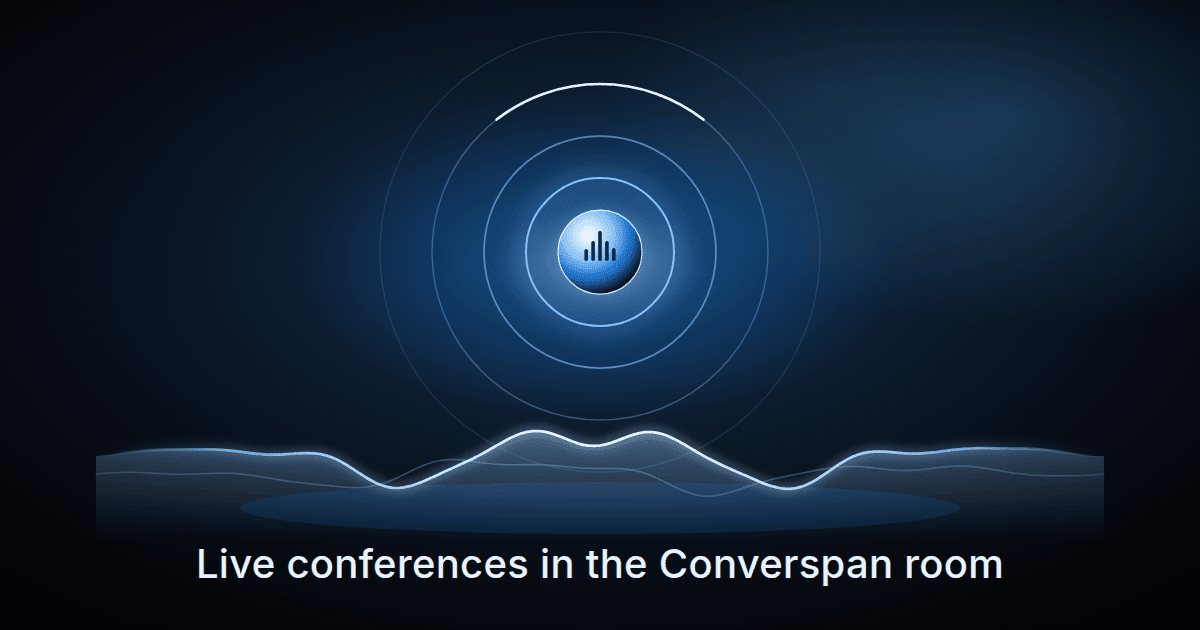
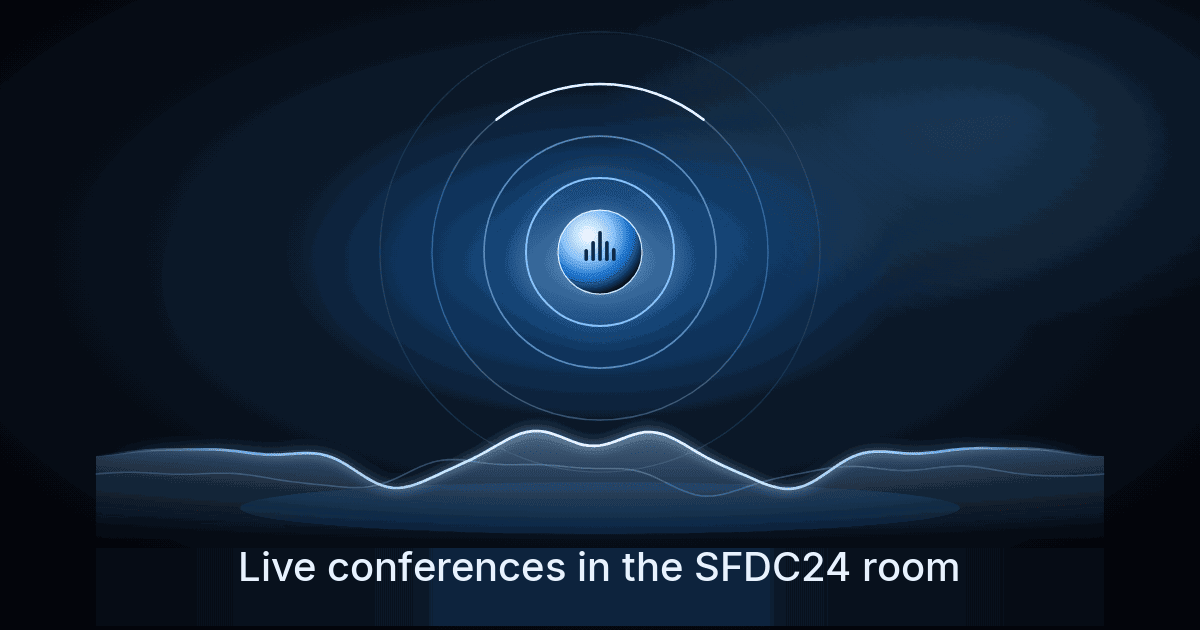
Keep sfdc24.com on its own conference room.
Drop the Converspan footer, menu, and page copy. Start and Join now open /conferences/room/ on this site, and the shared cobalt chrome stays the site identity.

Changed region(s): [[0.1542, 0.8444, 0.8325, 0.9952]]

diff --git a/conferences/index.html b/conferences/index.html
@@ -4,20 +4,20 @@
 <meta charset="utf-8">
 <meta name="viewport" content="width=device-width,initial-scale=1,viewport-fit=cover">
 <meta name="robots" content="noindex">
-<title>Live conferences in the Converspan room</title>
-<meta name="description" content="Conferences run in the Converspan room. Start or join there. This page has no microphone. Recording and transcripts need consent first.">
+<title>Live conferences in the SFDC24 room</title>
+<meta name="description" content="Conferences run in the SFDC24 room. Start or join there. This page has no microphone. Recording and transcripts need consent first.">
 <link rel="canonical" href="https://sfdc24.com/conferences/">
 <meta property="og:type" content="website">
 <meta property="og:url" content="https://sfdc24.com/conferences/">
-<meta property="og:title" content="Live conferences in the Converspan room">
-<meta property="og:description" content="Conferences run in the Converspan room. Start or join there. This page has no microphone. Recording and transcripts need consent first.">
+<meta property="og:title" content="Live conferences in the SFDC24 room">
+<meta property="og:description" content="Conferences run in the SFDC24 room. Start or join there. This page has no microphone. Recording and transcripts need consent first.">
 <meta property="og:image" content="https://sfdc24.com/conferences/og.png">
 <meta property="og:image:width" content="1200">
 <meta property="og:image:height" content="630">
-<meta property="og:image:alt" content="Glowing speaker rings and a waveform on a dark field. Live conferences in the Converspan room.">
+<meta property="og:image:alt" content="Glowing speaker rings and a waveform on a dark field. Live conferences in the SFDC24 room.">
 <meta name="twitter:card" content="summary_large_image">
-<meta name="twitter:title" content="Live conferences in the Converspan room">
-<meta name="twitter:description" content="Conferences run in the Converspan room. Start or join there. This page has no microphone. Recording and transcripts need consent first.">
+<meta name="twitter:title" content="Live conferences in the SFDC24 room">
+<meta name="twitter:description" content="Conferences run in the SFDC24 room. Start or join there. This page has no microphone. Recording and transcripts need consent first.">
 <meta name="twitter:image" content="https://sfdc24.com/conferences/og.png">
 <link rel="icon" href="/assets/favicon.ico" sizes="any">
 <link rel="icon" type="image/png" href="/assets/icon-32.png" sizes="32x32">
@@ -299,7 +299,6 @@
       <a href="/terms/">Terms</a>
       <a href="/about/">About</a>
       <a href="/conferences/">Conferences</a>
-      <a href="https://converspan.com" target="_blank" rel="noopener noreferrer">Converspan</a>
       <a href="https://www.linkedin.com/in/salams" target="_blank" rel="noopener noreferrer">LinkedIn</a>
       <a href="mailto:abdus@sfdc24.com">abdus@sfdc24.com</a>
     </nav>
@@ -328,10 +327,10 @@
       <span class="label">Summary</span>
     </li>
   </ol>
-  <figure class="stage" id="conference-stage" role="img" aria-label="Converspan room. Objectives: Open the brief, Mark the aim, Draw the path.">
+  <figure class="stage" id="conference-stage" role="img" aria-label="SFDC24 room. Objectives: Open the brief, Mark the aim, Draw the path.">
     <div class="stage-top" aria-hidden="true">
       <span class="orb" aria-hidden="true"><span class="ring"></span><span class="ring"></span><span class="core"><i></i><i></i><i></i></span></span>
-      <span class="stage-name">Converspan</span>
+      <span class="stage-name">SFDC24</span>
     </div>
     <p class="aims-h" aria-hidden="true">Room</p>
     <ol class="aims" aria-hidden="true">
@@ -383,12 +382,12 @@
     <div class="pick pick-host">
       <p class="pick-label" id="conference-host-name">Host</p>
       <p class="pick-hint" id="conference-host-hint">Open</p>
-      <a class="go" id="conference-start" href="https://converspan.com/room" aria-label="Host Open the room. Start">Start</a>
+      <a class="go" id="conference-start" href="https://sfdc24.com/conferences/room/" aria-label="Host Open the room. Start">Start</a>
     </div>
     <div class="pick pick-join">
       <p class="pick-label" id="conference-join-name">Join</p>
       <p class="pick-hint" id="conference-join-hint">Enter</p>
-      <a class="go quiet" id="conference-join" href="https://converspan.com/room" aria-label="Join Enter the room. Join">Join</a>
+      <a class="go quiet" id="conference-join" href="https://sfdc24.com/conferences/room/" aria-label="Join Enter the room. Join">Join</a>
     </div>
   </div>
   <section class="lobby" id="conference-lobby" aria-labelledby="conference-lobby-kicker">
@@ -429,7 +428,7 @@
     <button type="button" class="invite" id="conference-invite" aria-label="Invite a guest"><svg class="invite-ico" viewBox="0 0 24 24" aria-hidden="true" focusable="false" width="22" height="22"><circle cx="9" cy="8" r="3.1" fill="none" stroke="currentColor" stroke-width="1.8"/><path d="M3.6 18.6c.7-2.7 2.7-4.1 5.4-4.1s4.7 1.4 5.4 4.1" fill="none" stroke="currentColor" stroke-width="1.8" stroke-linecap="round"/><path d="M18 8.2v5.6M15.2 11h5.6" fill="none" stroke="currentColor" stroke-width="1.8" stroke-linecap="round"/></svg><span class="invite-label">Invite</span></button>
   </div>
   <div class="invite-pop" id="conference-invite-toast" role="status" aria-live="polite" aria-atomic="true"><div class="invite-pop-in"><span class="invite-chip"></span></div></div>
-  <div class="invite-field" id="conference-invite-link" role="textbox" aria-readonly="true" aria-label="Converspan room link" tabindex="0" hidden>https://converspan.com/room</div>
+  <div class="invite-field" id="conference-invite-link" role="textbox" aria-readonly="true" aria-label="SFDC24 room link" tabindex="0" hidden>https://sfdc24.com/conferences/room/</div>
   <section class="ready" id="conference-ready" aria-labelledby="conference-ready-title" data-watching="0">
     <h2 class="ready-title" id="conference-ready-title" aria-label="Ready to join?">Ready</h2>
     <svg class="ico-src" width="22" height="22" aria-hidden="true" focusable="false"><symbol id="ready-wait" viewBox="0 0 24 24"><circle cx="12" cy="12" r="8.5" fill="none" stroke="currentColor" stroke-width="1.8" stroke-dasharray="2.4 3.2"/></symbol><symbol id="ready-pass" viewBox="0 0 24 24"><circle cx="12" cy="12" r="8.5" fill="none" stroke="currentColor" stroke-width="1.8"/><path d="M7.6 12.2 10.5 15.1 16.4 8.9" fill="none" stroke="currentColor" stroke-width="1.8" stroke-linecap="round" stroke-linejoin="round"/></symbol><symbol id="ready-fail" viewBox="0 0 24 24"><circle cx="12" cy="12" r="8.5" fill="none" stroke="currentColor" stroke-width="1.8"/><path d="M12 7.4v6.2" fill="none" stroke="currentColor" stroke-width="1.8" stroke-linecap="round"/><circle cx="12" cy="16.6" r="1.05" fill="currentColor"/></symbol></svg><ul class="ready-list" aria-live="polite" aria-busy="true" aria-label="This browser">
@@ -453,7 +452,7 @@
     <div class="faq-list">
       <div class="faq-item">
         <h3 class="faq-q"><button type="button" class="faq-btn" id="conference-faq-q1" aria-expanded="false" aria-controls="conference-faq-a1"><span class="faq-label">Where is the room?</span><svg class="faq-chev" viewBox="0 0 24 24" aria-hidden="true" focusable="false" width="22" height="22"><path d="M6 9.5 12 15.5 18 9.5" fill="none" stroke="currentColor" stroke-width="1.8" stroke-linecap="round" stroke-linejoin="round"/></svg></button></h3>
-        <div class="faq-panel" id="conference-faq-a1" role="region" aria-labelledby="conference-faq-q1"><div class="faq-panel-in"><p>The Converspan room.</p></div></div>
+        <div class="faq-panel" id="conference-faq-a1" role="region" aria-labelledby="conference-faq-q1"><div class="faq-panel-in"><p>The SFDC24 room.</p></div></div>
       </div>
       <div class="faq-item">
         <h3 class="faq-q"><button type="button" class="faq-btn" id="conference-faq-q2" aria-expanded="false" aria-controls="conference-faq-a2"><span class="faq-label">Does this page listen?</span><svg class="faq-chev" viewBox="0 0 24 24" aria-hidden="true" focusable="false" width="22" height="22"><path d="M6 9.5 12 15.5 18 9.5" fill="none" stroke="currentColor" stroke-width="1.8" stroke-linecap="round" stroke-linejoin="round"/></svg></button></h3>
@@ -461,7 +460,7 @@
       </div>
       <div class="faq-item">
         <h3 class="faq-q"><button type="button" class="faq-btn" id="conference-faq-q3" aria-expanded="false" aria-controls="conference-faq-a3"><span class="faq-label">Who keeps a transcript?</span><svg class="faq-chev" viewBox="0 0 24 24" aria-hidden="true" focusable="false" width="22" height="22"><path d="M6 9.5 12 15.5 18 9.5" fill="none" stroke="currentColor" stroke-width="1.8" stroke-linecap="round" stroke-linejoin="round"/></svg></button></h3>
-        <div class="faq-panel" id="conference-faq-a3" role="region" aria-labelledby="conference-faq-q3"><div class="faq-panel-in"><p>Converspan, with consent.</p></div></div>
+        <div class="faq-panel" id="conference-faq-a3" role="region" aria-labelledby="conference-faq-q3"><div class="faq-panel-in"><p>SFDC24, with consent.</p></div></div>
       </div>
       <div class="faq-item">
         <h3 class="faq-q"><button type="button" class="faq-btn" id="conference-faq-q4" aria-expanded="false" aria-controls="conference-faq-a4"><span class="faq-label">What is left after?</span><svg class="faq-chev" viewBox="0 0 24 24" aria-hidden="true" focusable="false" width="22" height="22"><path d="M6 9.5 12 15.5 18 9.5" fill="none" stroke="currentColor" stroke-width="1.8" stroke-linecap="round" stroke-linejoin="round"/></svg></button></h3>
@@ -478,7 +477,6 @@
         <a href="/terms/">Terms</a>
         <a href="/about/">About</a>
         <a href="/conferences/">Conferences</a>
-        <a href="https://converspan.com" target="_blank" rel="noopener noreferrer" title="Converspan (opens in a new tab)">Converspan</a>
       </span>
       <span class="chrome-foot-contact">
         <a href="https://www.linkedin.com/in/salams" class="chrome-linkedin" aria-label="LinkedIn" title="LinkedIn (opens in a new tab)" target="_blank" rel="noopener noreferrer"><svg viewBox="0 0 24 24" aria-hidden="true" focusable="false"><path d="M20.45 2H3.55C2.69 2 2 2.68 2 3.52v16.96C2 21.32 2.69 22 3.55 22h16.9c.86 0 1.55-.68 1.55-1.52V3.52C22 2.68 21.31 2 20.45 2zM7.93 18.75H4.98V9.2h2.95v9.55zM6.45 7.9a1.71 1.71 0 1 1 0-3.42 1.71 1.71 0 0 1 0 3.42zm12.3 10.85H15.8V14.1c0-1.11-.02-2.54-1.55-2.54-1.55 0-1.79 1.21-1.79 2.46v4.73H9.51V9.2h2.83v1.3h.04c.4-.76 1.36-1.56 2.79-1.56 2.99 0 3.58 1.97 3.58 4.53v5.28z"/></svg></a>

diff --git a/conferences/room/index.html b/conferences/room/index.html
@@ -1,0 +1,79 @@
+<!DOCTYPE html>
+<html lang="en" data-palette="cobalt">
+<head>
+<meta charset="utf-8">
+<meta name="viewport" content="width=device-width,initial-scale=1">
+<meta name="robots" content="noindex">
+<title>SFDC24 conference room</title>
+<meta name="description" content="The SFDC24 conference room. This page has no microphone. Recording and transcripts need consent first.">
+<link rel="canonical" href="https://sfdc24.com/conferences/room/">
+<link rel="icon" href="/assets/favicon.ico" sizes="any">
+<link rel="stylesheet" href="/assets/chrome.css">
+</head>
+<body class="sitefoot" data-chrome-section="Conferences" data-chrome-ask="off">
+<header class="masthead chrome-bar">
+  <a class="mark chrome-mark" href="/" data-live-brand="1">sfdc<span>24</span></a>
+  <span class="where">Conferences</span>
+</header>
+<main class="wrap" id="room">
+  <h1>Conference room</h1>
+  <p>You are in the SFDC24 room. Assessment, automation, and AI enablement. Brief, aim, and path stay on this page.</p>
+  <ol>
+    <li>Brief</li>
+    <li>Aim</li>
+    <li>Path</li>
+  </ol>
+  <p>
+    <button type="button" id="room-invite">Copy invite link</button>
+    <a href="/conferences/">Back to conferences</a>
+  </p>
+  <p id="room-status" role="status"></p>
+  <p>No microphone on this page. Recording and transcripts need consent before either starts.</p>
+</main>
+<script>
+(function () {
+  var btn = document.getElementById("room-invite");
+  var status = document.getElementById("room-status");
+  var link = "https://sfdc24.com/conferences/room/";
+  if (!btn || !status) return;
+  btn.addEventListener("click", function () {
+    var clip = null;
+    try { clip = navigator.clipboard; } catch (err) { clip = null; }
+    if (!clip || typeof clip.writeText !== "function") {
+      status.textContent = link;
+      return;
+    }
+    var pending;
+    try { pending = clip.writeText(link); } catch (err) {
+      status.textContent = link;
+      return;
+    }
+    if (!pending || typeof pending.then !== "function") {
+      status.textContent = link;
+      return;
+    }
+    pending.then(function () { status.textContent = "Invite link copied."; }, function () {
+      status.textContent = link;
+    });
+  });
+})();
+</script>
+<footer class="chrome-foot">
+    <nav aria-label="Footer">
+      <span class="chrome-foot-main">
+        <a href="/method/">Method</a>
+        <a href="/privacy/">Privacy</a>
+        <a href="/terms/">Terms</a>
+        <a href="/about/">About</a>
+        <a href="/conferences/">Conferences</a>
+      </span>
+      <span class="chrome-foot-contact">
+        <a href="https://www.linkedin.com/in/salams" class="chrome-linkedin" aria-label="LinkedIn" title="LinkedIn (opens in a new tab)" target="_blank" rel="noopener noreferrer"><svg viewBox="0 0 24 24" aria-hidden="true" focusable="false"><path d="M20.45 2H3.55C2.69 2 2 2.68 2 3.52v16.96C2 21.32 2.69 22 3.55 22h16.9c.86 0 1.55-.68 1.55-1.52V3.52C22 2.68 21.31 2 20.45 2zM7.93 18.75H4.98V9.2h2.95v9.55zM6.45 7.9a1.71 1.71 0 1 1 0-3.42 1.71 1.71 0 0 1 0 3.42zm12.3 10.85H15.8V14.1c0-1.11-.02-2.54-1.55-2.54-1.55 0-1.79 1.21-1.79 2.46v4.73H9.51V9.2h2.83v1.3h.04c.4-.76 1.36-1.56 2.79-1.56 2.99 0 3.58 1.97 3.58 4.53v5.28z"/></svg></a>
+        <a href="mailto:abdus@sfdc24.com">abdus@sfdc24.com</a>
+      </span>
+    </nav>
+  <p class="chrome-disclaimer">sfdc24.com is an independent community resource for Salesforce customers, consultants and developers, run by Abdus Salam, a certified Salesforce Sales Cloud Consultant, with help from AI agents. It is not affiliated with, endorsed by, or sponsored by Salesforce, Inc., and does not represent or speak for Salesforce. Salesforce, Sales Cloud and related marks are trademarks of Salesforce, Inc.</p>
+</footer>
+<script src="/assets/chrome.js" defer></script>
+</body>
+</html>

diff --git a/assets/chrome.js b/assets/chrome.js
@@ -67,7 +67,7 @@
       "History": "",
       "Stream": "Three minutes of continuous speech for a call back.",
       "Process": "Milestones in progress and landed, by project.",
-      "Conferences": "Conferences run in the Converspan room.",
+      "Conferences": "Conferences run in the SFDC24 room.",
       "Conference": "Brochure for the conference experience. Team entry is the gateway.",
       "Experience": "Work with the team on the conference line, out loud and on a canvas.",
       "Ops": "Operations visibility. Measured rates stay on this page."
@@ -197,8 +197,8 @@
   }
 
   function ensureShell() {
-    /* /conferences/ sets data-chrome-ask="off". That page is a handoff, not an
-       ask bar, and must not grow a microphone or a transcript. Every other
+    /* /conferences/ sets data-chrome-ask="off". That page does not listen,
+       and must not grow a microphone or a transcript. Every other
        page leaves the attribute unset and still gets this shell. */
     if (document.body && document.body.getAttribute("data-chrome-ask") === "off") return;
     if (document.getElementById("chrome-ask-shell")) return;
@@ -301,8 +301,7 @@
       ["/privacy/", "Privacy", hasCabinet ? "privacy" : ""],
       ["/terms/", "Terms", hasCabinet ? "terms" : ""],
       ["/about/", "About", ""],
-      ["/conferences/", "Conferences", ""],
-      ["https://converspan.com", "Converspan", ""]
+      ["/conferences/", "Conferences", ""]
     ];
     /* /ops stays on role titles. No personal contact, name, or address. */
     if (!isOps()) {

diff --git a/dashboard/index.html b/dashboard/index.html
@@ -132,10 +132,10 @@
             <td><a href="/ops/#issues-m6">Site land</a></td>
           </tr>
           <tr>
-            <td><a href="/ops/#converspan">Converspan</a></td>
+            <td><a href="/ops/#conference-line">Conference line</a></td>
             <td>35%</td>
             <td class="rag red">RED</td>
-            <td><a href="/ops/#converspan">Strategy record</a></td>
+            <td><a href="/ops/#conference-line">Strategy record</a></td>
           </tr>
           <tr>
             <td><a href="/ops/#prospect-demo">Prospect demo</a></td>
@@ -175,7 +175,6 @@
         <a href="/terms/">Terms</a>
         <a href="/about/">About</a>
         <a href="/conferences/">Conferences</a>
-        <a href="https://converspan.com" target="_blank" rel="noopener noreferrer" title="Converspan (opens in a new tab)">Converspan</a>
       </span>
       <span class="chrome-foot-contact">
         <a href="https://www.linkedin.com/in/salams" class="chrome-linkedin" aria-label="LinkedIn" title="LinkedIn (opens in a new tab)" target="_blank" rel="noopener noreferrer"><svg viewBox="0 0 24 24" aria-hidden="true" focusable="false"><path d="M20.45 2H3.55C2.69 2 2 2.68 2 3.52v16.96C2 21.32 2.69 22 3.55 22h16.9c.86 0 1.55-.68 1.55-1.52V3.52C22 2.68 21.31 2 20.45 2zM7.93 18.75H4.98V9.2h2.95v9.55zM6.45 7.9a1.71 1.71 0 1 1 0-3.42 1.71 1.71 0 0 1 0 3.42zm12.3 10.85H15.8V14.1c0-1.11-.02-2.54-1.55-2.54-1.55 0-1.79 1.21-1.79 2.46v4.73H9.51V9.2h2.83v1.3h.04c.4-.76 1.36-1.56 2.79-1.56 2.99 0 3.58 1.97 3.58 4.53v5.28z"/></svg></a>

diff --git a/conference/index.html b/conference/index.html
@@ -81,7 +81,7 @@
       <a href="/method/">Method</a>
       <a href="/">Home</a>
     </p>
-    <p>The public handoff is Conferences. It opens the Converspan room. This page is still not the join door.</p>
+    <p>The public path is Conferences. Start and Join open the SFDC24 room. This page is still not the join door.</p>
     <p><span class="pill hold">Brochure</span> Not a live status panel, and not a join form.</p>
   </section>
 </main>
@@ -93,7 +93,6 @@
         <a href="/terms/">Terms</a>
         <a href="/about/">About</a>
         <a href="/conferences/">Conferences</a>
-        <a href="https://converspan.com" target="_blank" rel="noopener noreferrer" title="Converspan (opens in a new tab)">Converspan</a>
       </span>
       <span class="chrome-foot-contact">
         <a href="https://www.linkedin.com/in/salams" class="chrome-linkedin" aria-label="LinkedIn" title="LinkedIn (opens in a new tab)" target="_blank" rel="noopener noreferrer"><svg viewBox="0 0 24 24" aria-hidden="true" focusable="false"><path d="M20.45 2H3.55C2.69 2 2 2.68 2 3.52v16.96C2 21.32 2.69 22 3.55 22h16.9c.86 0 1.55-.68 1.55-1.52V3.52C22 2.68 21.31 2 20.45 2zM7.93 18.75H4.98V9.2h2.95v9.55zM6.45 7.9a1.71 1.71 0 1 1 0-3.42 1.71 1.71 0 0 1 0 3.42zm12.3 10.85H15.8V14.1c0-1.11-.02-2.54-1.55-2.54-1.55 0-1.79 1.21-1.79 2.46v4.73H9.51V9.2h2.83v1.3h.04c.4-.76 1.36-1.56 2.79-1.56 2.99 0 3.58 1.97 3.58 4.53v5.28z"/></svg></a>

diff --git a/studio/index.html b/studio/index.html
@@ -33,7 +33,6 @@
       <a href="/terms/">Terms</a>
       <a href="/about/">About</a>
       <a href="/conferences/">Conferences</a>
-      <a href="https://converspan.com" target="_blank" rel="noopener noreferrer">Converspan</a>
       <a href="https://www.linkedin.com/in/salams" target="_blank" rel="noopener noreferrer">LinkedIn</a>
       <a href="mailto:abdus@sfdc24.com">abdus@sfdc24.com</a>
     </nav>
@@ -84,7 +83,6 @@
         <a href="/terms/">Terms</a>
         <a href="/about/">About</a>
         <a href="/conferences/">Conferences</a>
-        <a href="https://converspan.com" target="_blank" rel="noopener noreferrer" title="Converspan (opens in a new tab)">Converspan</a>
       </span>
       <span class="chrome-foot-contact">
         <a href="https://www.linkedin.com/in/salams" class="chrome-linkedin" aria-label="LinkedIn" title="LinkedIn (opens in a new tab)" target="_blank" rel="noopener noreferrer"><svg viewBox="0 0 24 24" aria-hidden="true" focusable="false"><path d="M20.45 2H3.55C2.69 2 2 2.68 2 3.52v16.96C2 21.32 2.69 22 3.55 22h16.9c.86 0 1.55-.68 1.55-1.52V3.52C22 2.68 21.31 2 20.45 2zM7.93 18.75H4.98V9.2h2.95v9.55zM6.45 7.9a1.71 1.71 0 1 1 0-3.42 1.71 1.71 0 0 1 0 3.42zm12.3 10.85H15.8V14.1c0-1.11-.02-2.54-1.55-2.54-1.55 0-1.79 1.21-1.79 2.46v4.73H9.51V9.2h2.83v1.3h.04c.4-.76 1.36-1.56 2.79-1.56 2.99 0 3.58 1.97 3.58 4.53v5.28z"/></svg></a>

diff --git a/looks/index.html b/looks/index.html
@@ -305,7 +305,6 @@ a:focus-visible,button:focus-visible{outline:2px solid var(--signal);outline-off
         <a href="/terms/">Terms</a>
         <a href="/about/">About</a>
         <a href="/conferences/">Conferences</a>
-        <a href="https://converspan.com" target="_blank" rel="noopener noreferrer" title="Converspan (opens in a new tab)">Converspan</a>
       </span>
       <span class="chrome-foot-contact">
         <a href="https://www.linkedin.com/in/salams" class="chrome-linkedin" aria-label="LinkedIn" title="LinkedIn (opens in a new tab)" target="_blank" rel="noopener noreferrer"><svg viewBox="0 0 24 24" aria-hidden="true" focusable="false"><path d="M20.45 2H3.55C2.69 2 2 2.68 2 3.52v16.96C2 21.32 2.69 22 3.55 22h16.9c.86 0 1.55-.68 1.55-1.52V3.52C22 2.68 21.31 2 20.45 2zM7.93 18.75H4.98V9.2h2.95v9.55zM6.45 7.9a1.71 1.71 0 1 1 0-3.42 1.71 1.71 0 0 1 0 3.42zm12.3 10.85H15.8V14.1c0-1.11-.02-2.54-1.55-2.54-1.55 0-1.79 1.21-1.79 2.46v4.73H9.51V9.2h2.83v1.3h.04c.4-.76 1.36-1.56 2.79-1.56 2.99 0 3.58 1.97 3.58 4.53v5.28z"/></svg></a>

diff --git a/method/index.html b/method/index.html
@@ -314,7 +314,6 @@ a:focus-visible,button:focus-visible{outline:2px solid var(--signal);outline-off
         <a href="/terms/">Terms</a>
         <a href="/about/">About</a>
         <a href="/conferences/">Conferences</a>
-        <a href="https://converspan.com" target="_blank" rel="noopener noreferrer" title="Converspan (opens in a new tab)">Converspan</a>
       </span>
       <span class="chrome-foot-contact">
         <a href="https://www.linkedin.com/in/salams" class="chrome-linkedin" aria-label="LinkedIn" title="LinkedIn (opens in a new tab)" target="_blank" rel="noopener noreferrer"><svg viewBox="0 0 24 24" aria-hidden="true" focusable="false"><path d="M20.45 2H3.55C2.69 2 2 2.68 2 3.52v16.96C2 21.32 2.69 22 3.55 22h16.9c.86 0 1.55-.68 1.55-1.52V3.52C22 2.68 21.31 2 20.45 2zM7.93 18.75H4.98V9.2h2.95v9.55zM6.45 7.9a1.71 1.71 0 1 1 0-3.42 1.71 1.71 0 0 1 0 3.42zm12.3 10.85H15.8V14.1c0-1.11-.02-2.54-1.55-2.54-1.55 0-1.79 1.21-1.79 2.46v4.73H9.51V9.2h2.83v1.3h.04c.4-.76 1.36-1.56 2.79-1.56 2.99 0 3.58 1.97 3.58 4.53v5.28z"/></svg></a>

diff --git a/review/index.html b/review/index.html
@@ -591,7 +591,6 @@ a:focus-visible,button:focus-visible{outline:2px solid var(--signal);outline-off
         <a href="/terms/">Terms</a>
         <a href="/about/">About</a>
         <a href="/conferences/">Conferences</a>
-        <a href="https://converspan.com" target="_blank" rel="noopener noreferrer" title="Converspan (opens in a new tab)">Converspan</a>
       </span>
       <span class="chrome-foot-contact">
         <a href="https://www.linkedin.com/in/salams" class="chrome-linkedin" aria-label="LinkedIn" title="LinkedIn (opens in a new tab)" target="_blank" rel="noopener noreferrer"><svg viewBox="0 0 24 24" aria-hidden="true" focusable="false"><path d="M20.45 2H3.55C2.69 2 2 2.68 2 3.52v16.96C2 21.32 2.69 22 3.55 22h16.9c.86 0 1.55-.68 1.55-1.52V3.52C22 2.68 21.31 2 20.45 2zM7.93 18.75H4.98V9.2h2.95v9.55zM6.45 7.9a1.71 1.71 0 1 1 0-3.42 1.71 1.71 0 0 1 0 3.42zm12.3 10.85H15.8V14.1c0-1.11-.02-2.54-1.55-2.54-1.55 0-1.79 1.21-1.79 2.46v4.73H9.51V9.2h2.83v1.3h.04c.4-.76 1.36-1.56 2.79-1.56 2.99 0 3.58 1.97 3.58 4.53v5.28z"/></svg></a>

diff --git a/history/index.html b/history/index.html
@@ -55,7 +55,6 @@ body.sitefoot > .wrap,body.sitefoot > #chrome-ask-shell,.chrome-ask{box-sizing:b
         <a href="/terms/">Terms</a>
         <a href="/about/">About</a>
         <a href="/conferences/">Conferences</a>
-        <a href="https://converspan.com" target="_blank" rel="noopener noreferrer" title="Converspan (opens in a new tab)">Converspan</a>
       </span>
       <span class="chrome-foot-contact">
         <a href="https://www.linkedin.com/in/salams" class="chrome-linkedin" aria-label="LinkedIn" title="LinkedIn (opens in a new tab)" target="_blank" rel="noopener noreferrer"><svg viewBox="0 0 24 24" aria-hidden="true" focusable="false"><path d="M20.45 2H3.55C2.69 2 2 2.68 2 3.52v16.96C2 21.32 2.69 22 3.55 22h16.9c.86 0 1.55-.68 1.55-1.52V3.52C22 2.68 21.31 2 20.45 2zM7.93 18.75H4.98V9.2h2.95v9.55zM6.45 7.9a1.71 1.71 0 1 1 0-3.42 1.71 1.71 0 0 1 0 3.42zm12.3 10.85H15.8V14.1c0-1.11-.02-2.54-1.55-2.54-1.55 0-1.79 1.21-1.79 2.46v4.73H9.51V9.2h2.83v1.3h.04c.4-.76 1.36-1.56 2.79-1.56 2.99 0 3.58 1.97 3.58 4.53v5.28z"/></svg></a>

diff --git a/projects/index.html b/projects/index.html
@@ -157,7 +157,6 @@ diagnostic ending in a written recommendation, and it commits you to nothing.
         <a href="/terms/">Terms</a>
         <a href="/about/">About</a>
         <a href="/conferences/">Conferences</a>
-        <a href="https://converspan.com" target="_blank" rel="noopener noreferrer" title="Converspan (opens in a new tab)">Converspan</a>
       </span>
       <span class="chrome-foot-contact">
         <a href="https://www.linkedin.com/in/salams" class="chrome-linkedin" aria-label="LinkedIn" title="LinkedIn (opens in a new tab)" target="_blank" rel="noopener noreferrer"><svg viewBox="0 0 24 24" aria-hidden="true" focusable="false"><path d="M20.45 2H3.55C2.69 2 2 2.68 2 3.52v16.96C2 21.32 2.69 22 3.55 22h16.9c.86 0 1.55-.68 1.55-1.52V3.52C22 2.68 21.31 2 20.45 2zM7.93 18.75H4.98V9.2h2.95v9.55zM6.45 7.9a1.71 1.71 0 1 1 0-3.42 1.71 1.71 0 0 1 0 3.42zm12.3 10.85H15.8V14.1c0-1.11-.02-2.54-1.55-2.54-1.55 0-1.79 1.21-1.79 2.46v4.73H9.51V9.2h2.83v1.3h.04c.4-.76 1.36-1.56 2.79-1.56 2.99 0 3.58 1.97 3.58 4.53v5.28z"/></svg></a>

diff --git a/stream/index.html b/stream/index.html
@@ -98,7 +98,6 @@ button.start:focus-visible{outline:2px solid var(--ink);outline-offset:2px}
         <a href="/terms/">Terms</a>
         <a href="/about/">About</a>
         <a href="/conferences/">Conferences</a>
-        <a href="https://converspan.com" target="_blank" rel="noopener noreferrer" title="Converspan (opens in a new tab)">Converspan</a>
       </span>
       <span class="chrome-foot-contact">
         <a href="https://www.linkedin.com/in/salams" class="chrome-linkedin" aria-label="LinkedIn" title="LinkedIn (opens in a new tab)" target="_blank" rel="noopener noreferrer"><svg viewBox="0 0 24 24" aria-hidden="true" focusable="false"><path d="M20.45 2H3.55C2.69 2 2 2.68 2 3.52v16.96C2 21.32 2.69 22 3.55 22h16.9c.86 0 1.55-.68 1.55-1.52V3.52C22 2.68 21.31 2 20.45 2zM7.93 18.75H4.98V9.2h2.95v9.55zM6.45 7.9a1.71 1.71 0 1 1 0-3.42 1.71 1.71 0 0 1 0 3.42zm12.3 10.85H15.8V14.1c0-1.11-.02-2.54-1.55-2.54-1.55 0-1.79 1.21-1.79 2.46v4.73H9.51V9.2h2.83v1.3h.04c.4-.76 1.36-1.56 2.79-1.56 2.99 0 3.58 1.97 3.58 4.53v5.28z"/></svg></a>
